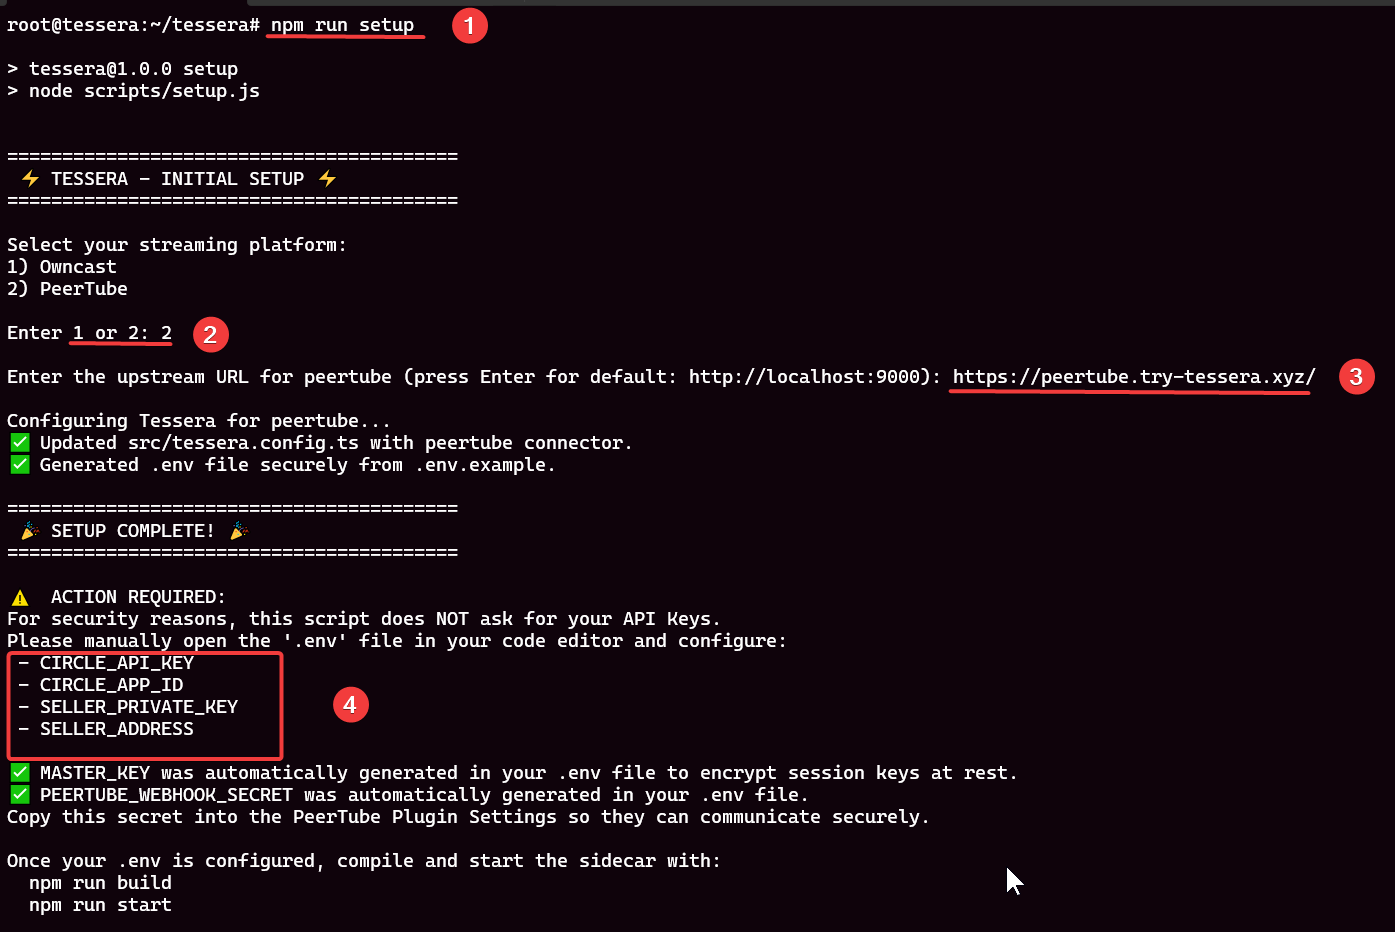
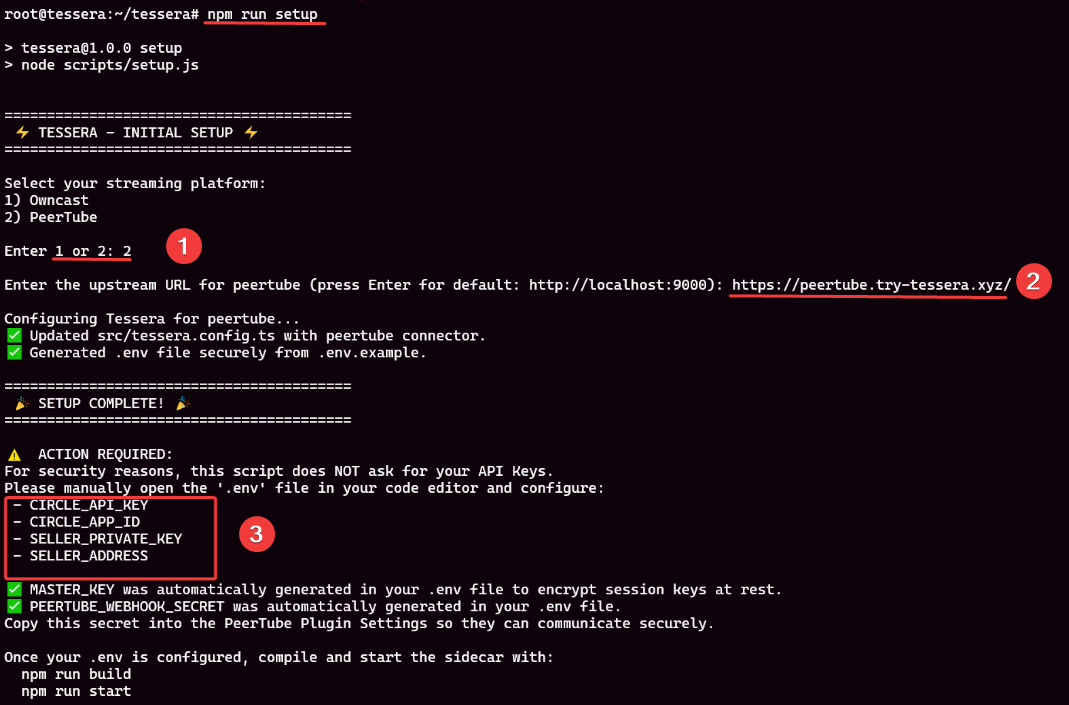
docs: update environment variable guide and example config

diff --git a/docs/getting-started/index.md b/docs/getting-started/index.md
@@ -42,9 +42,11 @@ nano .env
 
 ![.env configuration](../assets/nano_env.png)
 
-Fill in the **indispensable** variables required for the engine to run:
+Fill in the required variables to run the engine:
 - `CIRCLE_API_KEY`
 - `CIRCLE_APP_ID`
+- `SELLER_ADDRESS`
+- `SELLER_PRIVATE_KEY`
 
 ## 3. Deployment
 